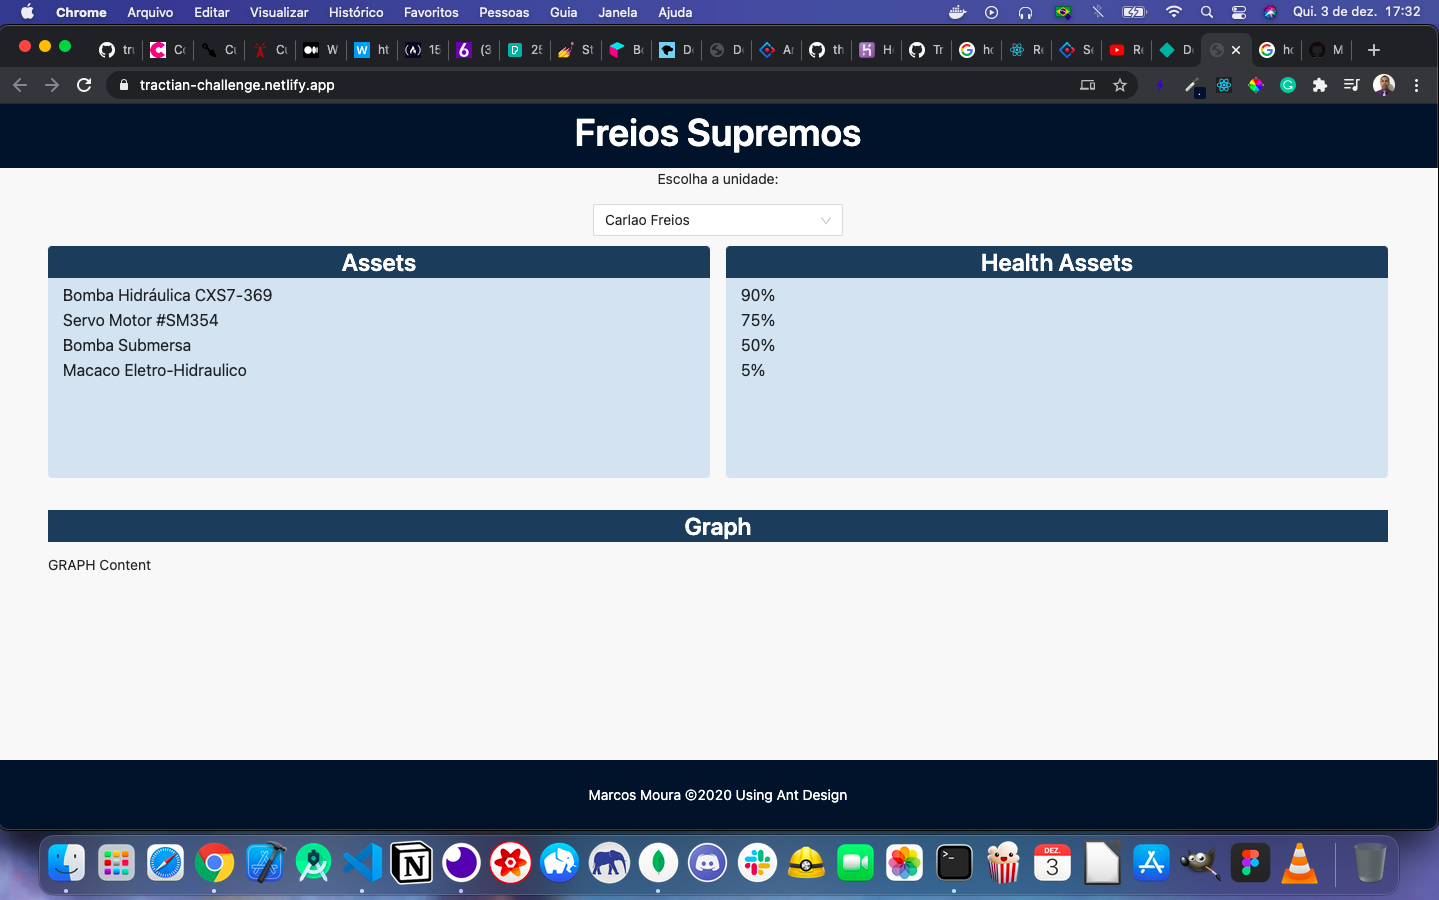
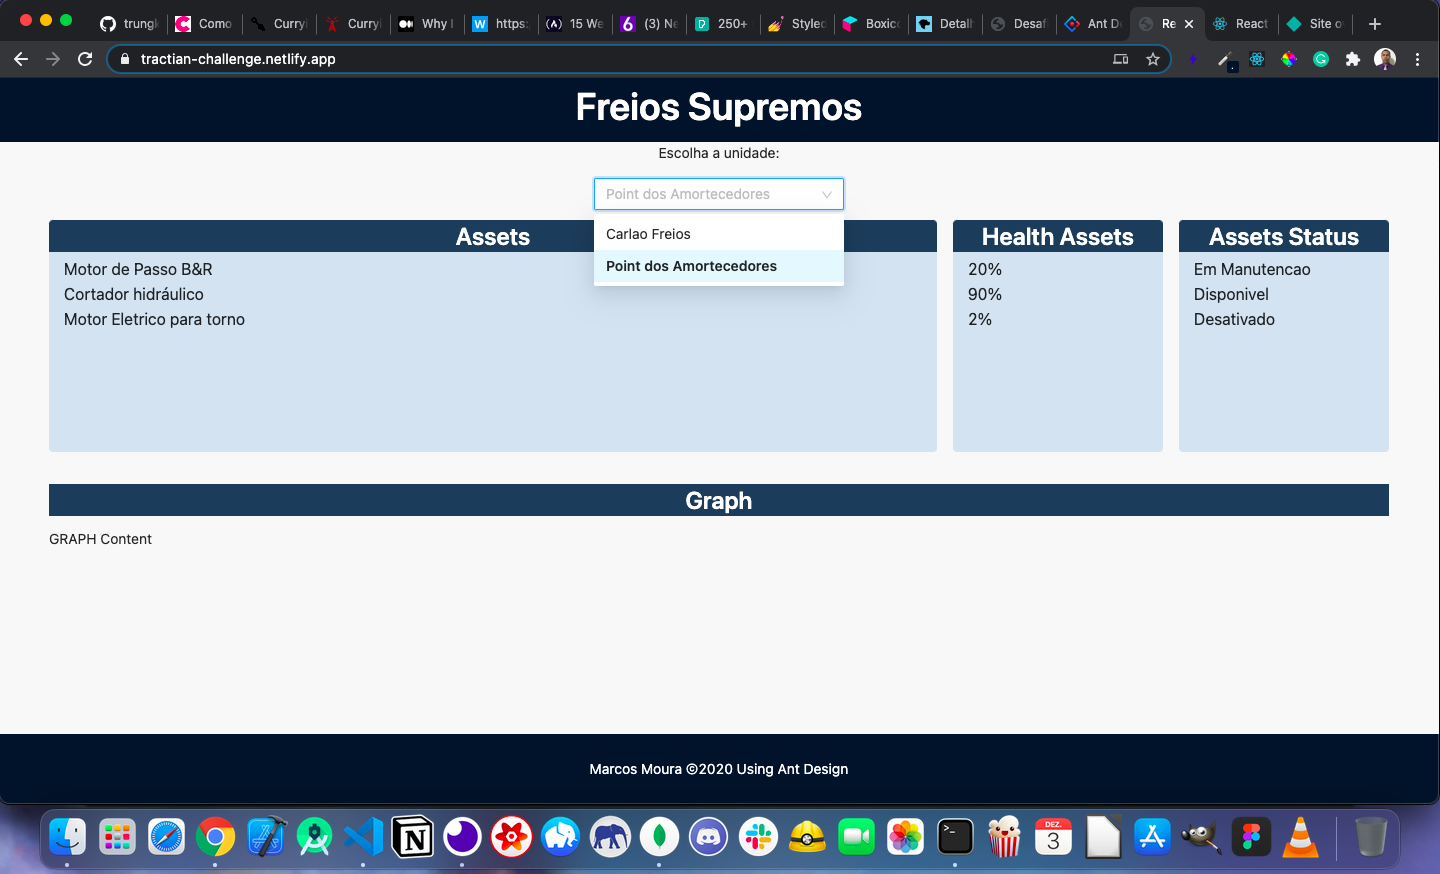
Challenge finished

Changed region(s): [[0.0, 0.0, 1.0, 0.6487], [0.0, 0.8341, 1.0, 0.9886]]

diff --git a/frontend/src/components/Container/index.js b/frontend/src/components/Container/index.js
@@ -53,7 +53,7 @@ const Container = () => {
 
       <div className='assets-content'>
         <Row gutter={[16,32]}>
-          <Col xl={12} xxl={12}>
+          <Col xl={16} xxl={16}>
             <Title level={3} style={{ textAlign: 'center', color: '#ffffff', background: '#213d59', borderTopLeftRadius: '4px', borderTopRightRadius: '4px' }}>
               Assets
             </Title>
@@ -69,7 +69,7 @@ const Container = () => {
             </div>
           </Col>
 
-          <Col xl={12} xxl={12}>
+          <Col xl={4} xxl={4}>
             <Title level={3} style={{ textAlign: 'center', color: '#ffffff', background: '#213d59', borderTopLeftRadius: '4px', borderTopRightRadius: '4px' }}>
               Health Assets
             </Title>
@@ -79,6 +79,22 @@ const Container = () => {
               {
                 assets.map(item => (
                   item.branchOwner === unitSelected ? <div>{item.healthscore}</div> : <div> </div>
+                  ))
+              }
+              </div>
+            </div>
+          </Col>
+
+          <Col xl={4} xxl={4}>
+            <Title level={3} style={{ textAlign: 'center', color: '#ffffff', background: '#213d59', borderTopLeftRadius: '4px', borderTopRightRadius: '4px' }}>
+              Assets Status
+            </Title>
+
+            <div className='content'>
+              <div className='statusAssetsContent'>
+              {
+                assets.map(item => (
+                  item.branchOwner === unitSelected ? <div>{item.status}</div> : <div> </div>
                   ))
               }
               </div>

diff --git a/frontend/src/components/Container/container.css b/frontend/src/components/Container/container.css
@@ -12,7 +12,7 @@
   border-bottom-right-radius: 4px;
 }
 
-.healthAssetsContent {
+.healthAssetsContent, .statusAssetsContent {
   background-color: #d5e3f1;
   margin-top: -12px;
   padding: 5px 15px;
